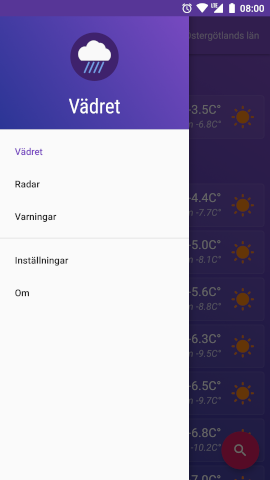
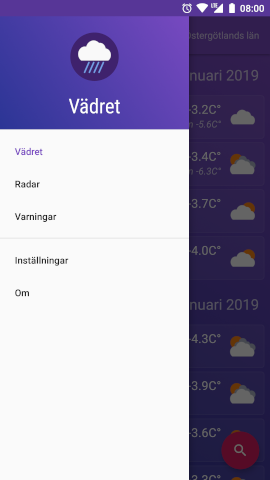
fixes #108 -- add date next to weekday

diff --git a/app/src/main/java/fi/kroon/vadret/presentation/adapter/ForecastAdapter.kt b/app/src/main/java/fi/kroon/vadret/presentation/adapter/ForecastAdapter.kt
@@ -17,6 +17,8 @@ import kotlinx.android.synthetic.main.weather_item.view.*
 import kotlinx.android.synthetic.main.weather_item_header.view.*
 import org.threeten.bp.LocalDate
 import org.threeten.bp.OffsetDateTime
+import org.threeten.bp.format.DateTimeFormatter
+import org.threeten.bp.format.FormatStyle
 import org.threeten.bp.format.TextStyle
 import timber.log.Timber
 import java.util.Locale
@@ -37,10 +39,12 @@ class ForecastAdapter @Inject constructor() : RecyclerView.Adapter<RecyclerView.
 
     class WeekdayViewHolder(itemView: View) : RecyclerView.ViewHolder(itemView) {
         fun bind(localDate: LocalDate) {
+            val formatter = DateTimeFormatter.ofLocalizedDate(FormatStyle.LONG)
+            itemView.date.text = localDate.format(formatter)
             itemView.weekDay.text = localDate
-                    .dayOfWeek
-                    .getDisplayName(TextStyle.FULL_STANDALONE, Locale.getDefault())
-                    .toUpperCase()
+                .dayOfWeek
+                .getDisplayName(TextStyle.FULL_STANDALONE, Locale.getDefault())
+                .toUpperCase()
         }
     }
 

diff --git a/app/src/main/res/raw/changelog.md b/app/src/main/res/raw/changelog.md
@@ -10,6 +10,9 @@ and this project adheres to [Semantic Versioning](https://semver.org/spec/v2.0.0
 ### Fixed
 - 'Feels like' is now properly displayed
 
+### Added
+- Show date besides day
+
 ## [0.1.7] -- 2019-01-20
 
 ### Added
